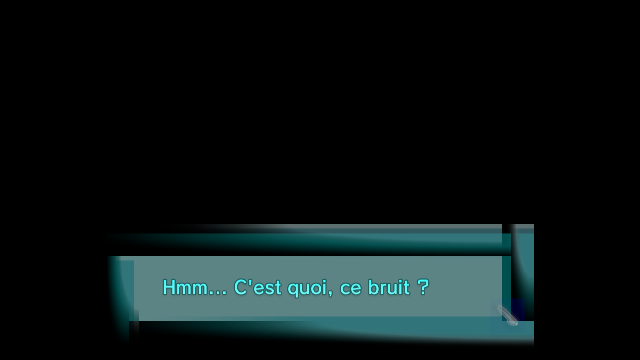
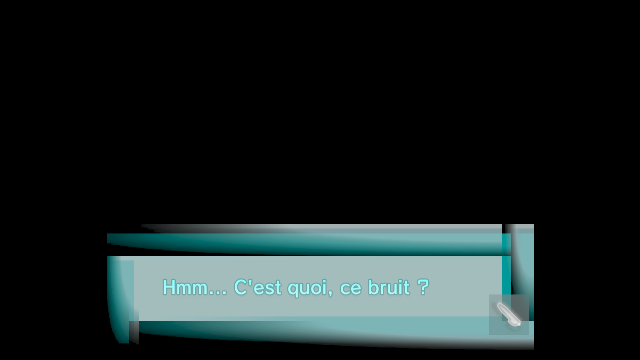
fix(wiiu): textures rendues par le GPU dans l'interface lyt (V inversé) : bulle et titres à l'endroit

Changed region(s): [[0.1562, 0.6111, 0.8438, 0.9778]]

diff --git a/decompile/recomp/gpu/bridge/decaf_bridge.cpp b/decompile/recomp/gpu/bridge/decaf_bridge.cpp
@@ -105,6 +105,7 @@ struct BridgeFunction
 {
     cafe::hle::LibraryFunction* fn;
     Guard guard;
+    void (*after)(PPCContext&) = nullptr; // après l'appel, cœur decaf encore actif
 };
 
 // Un shader dont le programme est absent (fichier GSH illisible : le chargeur du jeu laisse la
@@ -401,10 +402,53 @@ bool guardSetVertexUniformBlockProbe(PPCContext& ctx)
     return false;
 }
 
+// Mémoire des cibles de couleur (GX2Surface : imageSize +0x20, image +0x24). Le vrai
+// lyt_BuildinShader retourne V pour les textures rendues par le GPU (convention des cibles de
+// rendu) ; notre shader reconstruit lit ce choix dans le registre C255 (lyt.psh).
+std::mutex s_targetLock;
+std::map<uint32_t, uint32_t> s_targets; // début -> fin
+
+void noteColorTarget(uint32_t surface)
+{
+    const uint32_t image = rt::load32(surface + 0x24), size = rt::load32(surface + 0x20);
+    if (!image || !size)
+        return;
+    std::lock_guard guard(s_targetLock);
+    s_targets[image] = image + size;
+}
+
+bool isColorTarget(uint32_t image)
+{
+    std::lock_guard guard(s_targetLock);
+    auto it = s_targets.upper_bound(image);
+    if (it == s_targets.begin())
+        return false;
+    --it;
+    return image < it->second;
+}
+
+void afterSetPixelTexture(PPCContext& ctx)
+{
+    if (ctx.r4.u32 != 0 || !ctx.r3.u32)
+        return;
+    static thread_local uint32_t buffer = rt::sysAlloc(16);
+    const bool target = isColorTarget(rt::load32(ctx.r3.u32 + 0x24));
+    const float values[4] = { target ? 1.0f : 0.0f, target ? -1.0f : 1.0f, 0.0f, 0.0f };
+    for (int i = 0; i < 4; i++)
+    {
+        uint32_t bits;
+        memcpy(&bits, &values[i], 4);
+        rt::store32(buffer + i * 4, bits);
+    }
+    cafe::gx2::GX2SetPixelUniformReg(255 * 4, 4, virt_cast<uint32_t *>(virt_addr { buffer }));
+}
+
 // --probe : cibles de couleur distinctes (GX2ColorBuffer : surface.dim +0, width +4, height +8,
 // depth +0xC, format +0x14, image +0x24, tileMode +0x30 ; viewMip +0x74, viewFirstSlice +0x78).
 bool guardSetColorBufferProbe(PPCContext& ctx)
 {
+    if (ctx.r3.u32)
+        noteColorTarget(ctx.r3.u32);
     // DECAF_RDOC_ON_CUBE : capture RenderDoc au premier rendu dans une cube map (sondes de lumière).
     static const bool rdocOnCube = getenv("DECAF_RDOC_ON_CUBE") != nullptr;
     // DECAF_RDOC_ON_SIZE=<l>x<h> : idem au premier rendu dans une cible de cette taille.
@@ -484,6 +528,8 @@ void invokeDecafFunction(PPCContext& ctx, uint8_t*, void* user)
     cpu::Core* previous = t_core;
     t_core = &core;
     cpu::Core* result = fn->invokeHandler(&core, 0);
+    if (bridge->after)
+        bridge->after(ctx);
     t_core = previous;
     coreToContext(*result, ctx);
 }
@@ -558,6 +604,8 @@ void decafGx2Register()
             auto* fn = static_cast<cafe::hle::LibraryFunction*>(symbol.get());
             auto guard = kGuards.find(name);
             auto* bridge = new BridgeFunction { fn, guard == kGuards.end() ? nullptr : guard->second };
+            if (name == "GX2SetPixelTexture")
+                bridge->after = afterSetPixelTexture;
             if (name == "rpl_entry")
                 s_gx2Entry = bridge;
             else if (fn->hostPtr)

diff --git a/decompile/recomp/README.md b/decompile/recomp/README.md
@@ -330,11 +330,13 @@ Le décor 3D s'affiche (`docs/premiere_3d.png`), puis la première bulle de l'hi
 bonne convention pour ce jeu (la police du jeu place le haut des glyphes vers y = -1). Un essai
 de garder l'autre convention (viewport non retourné, image retournée à l'affichage, sens des
 faces inversé) reste disponible avec `DECAF_GPU7_ORIENTATION=1` mais met le texte à l'envers.
-**Problème ouvert** : le contenu d'interface rendu dans une image intermédiaire puis recomposé
-(bulle de l'intro « Hmm… C'est quoi, ce bruit ? », lueur des titres) sort retourné dans les deux
-orientations depuis la correction du culling ; il était correct avec l'orientation GPU7 et
-l'ancien culling. Piste : ces quads passent par notre shader lyt reconstruit et dépendent du sens
-des faces. Capture prête : `recomp/rdoc_684x234/` (non versionnée). La sonde `--probe` journalise chaque `GX2SetViewport` distinct.
+**Textures rendues par le GPU dans l'interface** : la bulle de l'intro et la lueur des titres
+passent par une image rendue par le GPU puis affichée dans un pane lyt. Ces images ont l'axe V
+inversé par rapport aux textures des fichiers ; le vrai `lyt_BuildinShader` en tenait compte.
+Le pont note la mémoire des cibles de couleur (`GX2SetColorBuffer`) et, après chaque
+`GX2SetPixelTexture` sur l'emplacement 0, écrit dans le registre C255 la transformation de V
+(`(1, -1)` pour une cible de rendu, `(0, 1)` sinon) que `lyt.psh` applique avant d'échantillonner.
+La sonde `--probe` journalise chaque `GX2SetViewport` distinct.
 
 ![Bulle de l'intro](docs/bulle_intro.png)
 

diff --git a/decompile/recomp/shaders/lyt/README.md b/decompile/recomp/shaders/lyt/README.md
@@ -47,3 +47,9 @@ drapeaux du matériau, +0xC) ; sinon le jeu envoie le nombre de textures (0 ou 1
 Replace, Modulate, Add, AddSigned, Interpolate, Subtract, Dodge, Burn, Overlay, Indirect,
 BlendIndirect, EachIndirect : 2, 3, 4, 6, 2, 5, 7, 8, 9, 0xE, 0xF, 0x10. Pas encore exploité
 par `lyt.psh` (texture 0 seulement).
+
+## Textures rendues par le GPU (registre C255)
+
+Une texture d'interface peut venir d'une cible de rendu (bulle de dialogue, lueur des titres) :
+son axe V est alors inversé. Le pont (`gpu/bridge/decaf_bridge.cpp`, `afterSetPixelTexture`)
+écrit `C255 = (1, -1)` dans ce cas, `(0, 1)` sinon ; `lyt.psh` calcule `v = C255.x + v * C255.y`.
